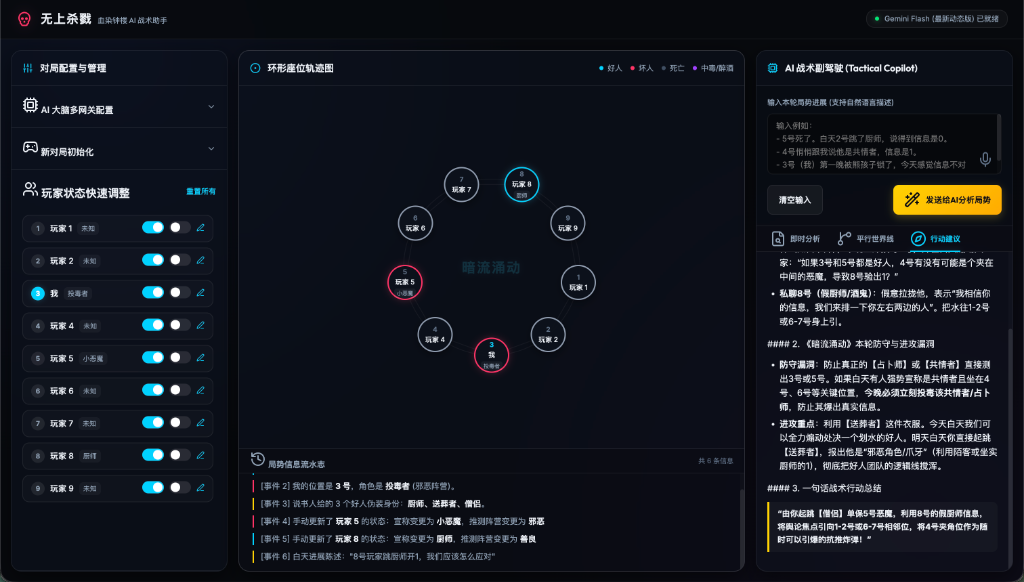
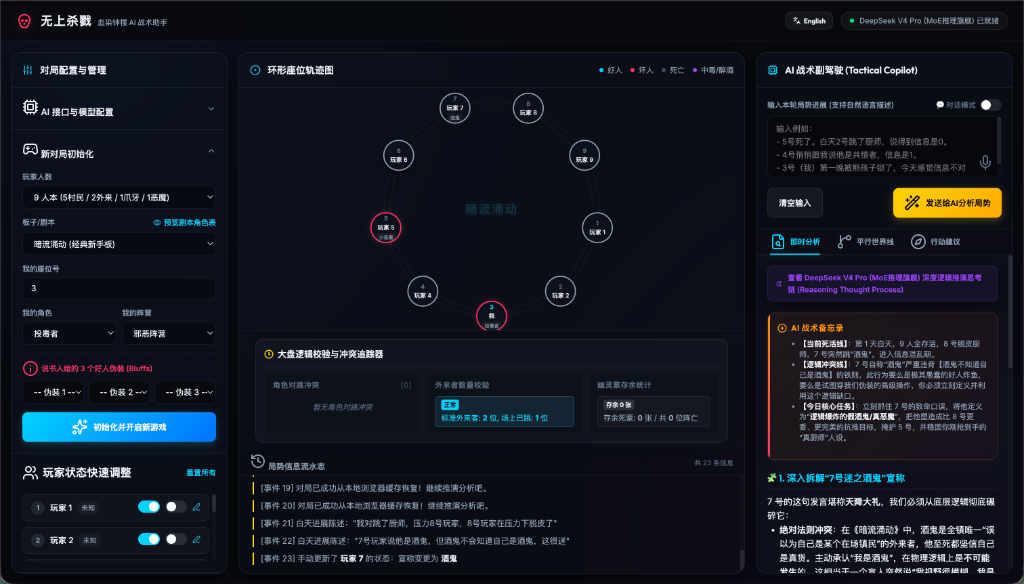
feat: implement NLP-based smart command parser & auto-sync logic for seating chart and deductive tracker

diff --git a/js/state.js b/js/state.js
@@ -283,3 +283,112 @@ export function togglePlayerPoison(seat, isPoisoned) {
         saveToLocalStorage();
     }
 }
+
+// --- 💡 极客功能：智能语义化分析与自动状态追踪提取器 (NLP Smart Command Parser) ---
+export function parseAndApplyTextEvents(text) {
+    if (!text) return;
+    
+    const currentScript = SCRIPTS_DATA[gameState.scriptName];
+    if (!currentScript) return;
+    
+    // 中英文角色底牌池
+    const allRolesCn = [...currentScript.townsfolk, ...currentScript.outsider, ...currentScript.minion, ...currentScript.demon];
+    const currentScriptEn = SCRIPTS_DATA_EN[gameState.scriptName] || { townsfolk:[], outsider:[], minion:[], demon:[] };
+    const allRolesEn = [...currentScriptEn.townsfolk, ...currentScriptEn.outsider, ...currentScriptEn.minion, ...currentScriptEn.demon];
+    
+    // 按分句拆分以实现精准座位与事件多点对应匹配
+    const sentences = text.split(/[,.，。;\n\s+、]+/);
+    let hasChanges = false;
+    
+    sentences.forEach(sentence => {
+        if (!sentence.trim()) return;
+        
+        // 匹配玩家座位，支持多种格式："1号"、"2号玩家"、"玩家3"、"Seat 4"、"seat-5" 等
+        const seatMatch = sentence.match(/(\d+)[\s-]*号|玩家[\s-]*(\d+)|seat[\s-]*(\d+)/i);
+        if (!seatMatch) return;
+        
+        const seatNum = parseInt(seatMatch[1] || seatMatch[2] || seatMatch[3]);
+        if (seatNum < 1 || seatNum > gameState.playerCount) return;
+        
+        const player = gameState.players.find(p => p.seat === seatNum);
+        if (!player) return;
+        
+        // 1. 自动追踪生死变化 (Death/Life Status Check)
+        if (/死|亡|出局|阵亡|被处决|die|dead|killed|executed/i.test(sentence) && !/没死|不死|未死|alive|not\s+dead/i.test(sentence)) {
+            if (player.alive !== false) {
+                player.alive = false;
+                hasChanges = true;
+                const logMsg = gameState.lang === "en"
+                    ? `[NLP Auto] Marked Seat ${seatNum} as Dead`
+                    : `[智能同步] 根据输入自动将 ${seatNum} 号标记为死亡状态`;
+                gameState.logs.push(logMsg);
+                console.log(`💡 [NLP Parser] Auto-updated Seat ${seatNum} to DEAD based on: "${sentence}"`);
+            }
+        } else if (/活|存活|未死|不死|没死|复活|alive/i.test(sentence)) {
+            if (player.alive !== true) {
+                player.alive = true;
+                hasChanges = true;
+                const logMsg = gameState.lang === "en"
+                    ? `[NLP Auto] Marked Seat ${seatNum} as Alive`
+                    : `[智能同步] 根据输入自动将 ${seatNum} 号标记为存活状态`;
+                gameState.logs.push(logMsg);
+                console.log(`💡 [NLP Parser] Auto-updated Seat ${seatNum} to ALIVE based on: "${sentence}"`);
+            }
+        }
+        
+        // 2. 自动追踪中毒醉酒状态 (Drunk/Poisoned Status Check)
+        if (/中毒|醉酒|drunk|poisoned/i.test(sentence) && !/解毒|恢复|正常|healthy|cured/i.test(sentence)) {
+            if (player.poisoned !== true) {
+                player.poisoned = true;
+                hasChanges = true;
+                const logMsg = gameState.lang === "en"
+                    ? `[NLP Auto] Marked Seat ${seatNum} as Drunk/Poisoned`
+                    : `[智能同步] 根据输入自动将 ${seatNum} 号标记为中毒/醉酒`;
+                gameState.logs.push(logMsg);
+                console.log(`💡 [NLP Parser] Auto-updated Seat ${seatNum} to POISONED based on: "${sentence}"`);
+            }
+        } else if (/解毒|恢复|解酒|正常|正常状态|healthy|cured/i.test(sentence)) {
+            if (player.poisoned !== false) {
+                player.poisoned = false;
+                hasChanges = true;
+                const logMsg = gameState.lang === "en"
+                    ? `[NLP Auto] Cleared Drunk/Poisoned on Seat ${seatNum}`
+                    : `[智能同步] 根据输入自动清除了 ${seatNum} 号的中毒/醉酒状态`;
+                gameState.logs.push(logMsg);
+                console.log(`💡 [NLP Parser] Auto-updated Seat ${seatNum} to HEALTHY based on: "${sentence}"`);
+            }
+        }
+        
+        // 3. 自动匹配并更新角色宣称 (Role Claims Check)
+        for (let i = 0; i < allRolesCn.length; i++) {
+            const cnRole = allRolesCn[i];
+            const enRole = allRolesEn[i] || "";
+            
+            // 确保角色全名出现在分句中，并支持中英双语识别
+            const regexCn = new RegExp(cnRole);
+            const regexEn = enRole ? new RegExp("\\b" + enRole + "\\b", "i") : null;
+            
+            if (regexCn.test(sentence) || (regexEn && regexEn.test(sentence))) {
+                if (player.claim !== cnRole) {
+                    const oldClaim = player.claim;
+                    player.claim = cnRole; // 始终以中文全名作为统一基准标识存储
+                    hasChanges = true;
+                    const logMsg = gameState.lang === "en"
+                        ? `[NLP Auto] Updated Seat ${seatNum} claim to: ${enRole}`
+                        : `[智能同步] 根据输入自动将 ${seatNum} 号的宣称变更为：${cnRole}`;
+                    gameState.logs.push(logMsg);
+                    console.log(`💡 [NLP Parser] Auto-updated Seat ${seatNum} claim from "${oldClaim}" to "${cnRole}"`);
+                }
+                break;
+            }
+        }
+    });
+    
+    if (hasChanges) {
+        renderSeatingChart();
+        renderPlayerList();
+        renderTimelineLogs();
+        renderDeductiveValidator();
+        saveToLocalStorage();
+    }
+}

diff --git a/js/components/deductiveValidator.js b/js/components/deductiveValidator.js
@@ -4,17 +4,31 @@
 
 import { gameState } from '../state.js';
 import { GAME_DISTRIBUTIONS, SCRIPTS_DATA } from '../data/rules.js';
+import { getLocalizedRole } from '../i18n.js';
 
 export function renderDeductiveValidator() {
     const card = document.getElementById("deductiveValidatorCard");
-    if (!card) return;
+    if (!card) {
+        console.warn("⚠️ [DeductiveValidator] Card container element 'deductiveValidatorCard' not found in DOM.");
+        return;
+    }
 
     const isEn = gameState.lang === "en";
     const currentScript = SCRIPTS_DATA[gameState.scriptName];
     if (!currentScript) {
+        console.warn("⚠️ [DeductiveValidator] Script data not found for:", gameState.scriptName);
         card.innerHTML = "";
         return;
     }
+
+    console.log("📊 [DeductiveValidator] Running validator checks...");
+    console.log("📊 [DeductiveValidator] Player count:", gameState.playerCount, "Script:", gameState.scriptName);
+    console.log("📊 [DeductiveValidator] Players state:", gameState.players.map(p => ({
+        seat: p.seat,
+        claim: p.claim,
+        alive: p.alive,
+        ghostVoteUsed: p.ghostVoteUsed
+    })));
 
     // 1. 计算对跳冲突 (Claim Collisions)
     const claimGroups = {};
@@ -33,6 +47,7 @@ export function renderDeductiveValidator() {
             collisions.push({ role, seats });
         }
     });
+    console.log("📊 [DeductiveValidator] Calculated collisions:", collisions);
 
     // 2. 计算外来者数量校验 (Outsider Validator)
     const standardDist = GAME_DISTRIBUTIONS[gameState.playerCount] || { Townsfolk: 0, outsider: 0, minion: 0, demon: 0 };
@@ -43,6 +58,7 @@ export function renderDeductiveValidator() {
         return currentScript.outsider.includes(p.claim);
     });
     const claimedOutsidersCount = claimedOutsiders.length;
+    console.log("📊 [DeductiveValidator] Outsiders: Standard =", standardOutsiders, "Claimed =", claimedOutsidersCount, claimedOutsiders.map(p => p.seat));
 
     // 3. 计算幽灵票存余统计 (Ghost Votes)
     const deadPlayers = gameState.players.filter(p => !p.alive);
@@ -66,7 +82,7 @@ export function renderDeductiveValidator() {
             const seatsStr = isEn ? `Seats ${c.seats.join(" & ")}` : `${c.seats.join(" 号 & ")} 号`;
             return `
                 <div class="validator-item alert-danger">
-                    <span><strong>${c.role}</strong> (${seatsStr})</span>
+                    <span><strong>${getLocalizedRole(c.role)}</strong> (${seatsStr})</span>
                     <span class="validator-badge danger">${isEn ? "Collision" : "对跳"}</span>
                 </div>
             `;

diff --git a/js/api.js b/js/api.js
@@ -18,7 +18,8 @@ import {
 
 import {
     gameState,
-    saveToLocalStorage
+    saveToLocalStorage,
+    parseAndApplyTextEvents
 } from './state.js';
 
 import { dom } from './dom.js';
@@ -80,11 +81,15 @@ export async function handleAiAnalysis() {
 
     // 1. 如果有输入输入框，且不是对话模式，才追加到日志中
     if (rawText && !isChatMode) {
+        // 先触发智能语义提取与自动状态追踪同步
+        parseAndApplyTextEvents(rawText);
+        
         gameState.logs.push(`白天进展陈述："${rawText}"`);
         renderTimelineLogs();
         dom.consoleInput.value = ""; // 清空
         saveToLocalStorage();
     } else if (rawText && isChatMode) {
+        parseAndApplyTextEvents(rawText);
         dom.consoleInput.value = ""; // 对话模式直接清空输入框，但不加进事件日志
         saveToLocalStorage();
     }

diff --git a/js/i18n.js b/js/i18n.js
@@ -21,6 +21,7 @@ import { dom } from './dom.js';
 import { renderSeatingChart } from './components/seatingChart.js';
 import { renderPlayerList } from './components/playerList.js';
 import { renderTimelineLogs } from './components/timelineLogs.js';
+import { renderDeductiveValidator } from './components/deductiveValidator.js';
 import { populateScriptPreview } from './components/scriptPreview.js';
 import { saveLanguage } from './services/storage.js';
 
@@ -225,6 +226,10 @@ export function setLanguage(lang) {
         renderPlayerList();
         renderSeatingChart();
         renderTimelineLogs();
+        renderDeductiveValidator();
+    }
+    else {
+        renderDeductiveValidator();
     }
     
     populateScriptPreview();

diff --git a/js/events.js b/js/events.js
@@ -10,12 +10,15 @@ import { populateScriptPreview } from './components/scriptPreview.js';
 import { handleAiAnalysis } from './api.js';
 import { TRANSLATIONS } from './data/translations.js';
 import { clearGameState, loadApiKey, saveApiKey } from './services/storage.js';
+import { renderDeductiveValidator } from './components/deductiveValidator.js';
 
 export function initCoreEvents() {
     // 1. 剧本更换监听
     dom.scriptSelect.addEventListener("change", () => {
+        gameState.scriptName = dom.scriptSelect.value;
         updateMyRoleOptions();
         populateScriptPreview();
+        renderDeductiveValidator();
         saveToLocalStorage();
     });
     

diff --git a/README.md b/README.md
@@ -33,28 +33,37 @@ This is a pure client-side, single-page gaming visualizer and logical deduction 
 
 ---
 
-#### 2. 🗺️ 中间面板：环形座位轨迹图与流水志 (Visual Board & Log)
-中间面板是游戏的物理局势沙盘，负责图形化还原圆桌对局状态并按时间线记录事件。
+#### 2. 🗺️ 中间面板：座位图、逻辑校验器与流水志 (Visual Board & Deductive Center)
+中间面板是整个游戏的物理局势沙盘与逻辑校验中心，负责图形化还原圆桌对局状态，实时校验逻辑冲突，并记录完整事件流水。
 
 * **环形座位轨迹图 (Circular Seating Chart)**：
   * **功能**：直观展示玩家之间的物理相对位置及实时状态。
   * **视角旋转机制**：输入您自身的座位号（“我”），圆桌会自动旋转，将您的物理座位锁定在圆桌的**正下方（6点钟方向）**，其余玩家节点按顺时针依次排布。此设计能帮助玩家从自身真实第一视角观测左邻右舍。
   * **状态图示**：
     * 蓝色外圈代表善良阵营，红色外圈代表邪恶阵营（由左侧面板判定设定）。
-    * 节点半透明且带暗灰边框表示该玩家已死亡。
+    * 节点半透明且带暗灰边框表示该玩家已死亡。死亡节点内部会自动渲染一枚 **幽灵票存余指示灯（Dead Vote Token）**，展示死票存余情况，点击可标记使用。
     * 节点带有紫色呼吸光晕代表该玩家当前被标记为中毒或醉酒。
-    * 玩家节点之间的带箭头保护线实时动态渲染。
+    * 玩家节点之间的物理邻座连线与茶艺师等技能保护线实时动态渲染。
+* **大盘逻辑校验与冲突追踪器 (Deductive Validator Dashboard)**：
+  * **功能**：系统核心的高级逻辑演算引擎，支持中英双语，负责实时进行全局逻辑校验，包括：
+    * **角色对跳冲突 (Claim Collisions)**：自动检测并追踪多名玩家宣称同一唯一角色（如对跳共情者、对跳占卜师）的冲突，在追踪面板中以高亮红色警报显示冲突座位号。
+    * **外来者数量校验 (Outsider Count)**：根据当前游戏人数读取对应的标准角色配置，与当前场上已起跳的外来者数量进行实时对比。当已起跳外来者数量溢出时自动发出警报，提示玩家关注“男爵、教父改配置”或“酒鬼、坏人穿衣服”的逻辑切入点。
+    * **幽灵票存余统计 (Dead Ghost Votes)**：实时汇总所有阵亡玩家的幽灵死票存余状态，清晰展示 “存余死票 / 总死亡人数”，帮助好人团队精确规划处决轮次与死票防守线。
 * **局势信息流水志 (Game Events Log)**：
   * **功能**：按时间顺序（Chronological Order）自动记录对局中发生的所有逻辑变更、玩家状态更新以及白天输入框提交的进展描述。
   * **使用方法**：此部分为系统自动维护。该日志链会直接作为 AI 提示词（Prompt）的结构化输入上下文，确保 AI 能够基于完整的历史对局脉络进行演算。当系统语言为英文时，AI 也会根据该上下文用英文做深度演算与输出。
 
 ---
 
-#### 3. 👉 右侧面板：AI 战术副驾驶 (Tactical Copilot)
+#### 3. 👉 右侧面板：AI 战术副驾驶与智能同步终端 (Tactical Copilot)
 右侧面板为基于大语言模型（LLM）的博弈推理输出终端，协助玩家分析逻辑漏洞。
 
 * **输入本轮局势进展 (Daytime Input)**：
   * **功能**：支持自然语言描述本轮发生的新信息（例如：*“5号夜里死了。8号白天跳厨师，说信息是1”*）。
+  * **智能语义提取与自动状态追踪同步 (NLP Smart Command Parser) [极客级功能]**：
+    * 当您在右侧文本框录入白天局势进展并发送给 AI 时，系统会在后台运行一套高效的**自然语言分析提取引擎**。
+    * 该引擎支持**中英双语**，能够智能识别句中的“玩家座位 + 事件行为”（如：*“5号夜里死了”* 自动将5号玩家设为死亡状态；*“8号白天跳厨师”* 自动将8号宣称更新为“厨师”；*“3号中毒了”* 自动给3号打上中毒高亮；*“1号和2号对跳共情者”* 自动更新两人的宣称并瞬间触发大盘冲突警报）。
+    * 这极大简化了玩家的手动点击操作，让您只用专注记录发言，物理座位图和大盘逻辑校验器将实时与您的文字描述同步！
   * **使用方法**：在文本域中录入最新的进展陈述，点击黄色 **【发送给AI分析局势】** 按钮。系统会清空输入框，将该进展归档至流水志，并向 AI 网关发起请求。
 * **推理输出选项卡 (Analysis Tabs)**：
   * 当页面切换为英文状态时，系统发送给 Gemini 等 API 的系统提示词 payload 会自动转换为高度结构化的英文，使 AI 即使面对中文的输入，也会全程以纯英文输出专业的世界线推演与战术对策。
@@ -118,28 +127,37 @@ This panel manages system initialization, AI gateway configs, and player state u
 
 ---
 
-#### 2. 🗺️ Center Panel: Seating Circle & Action Logs
-The sandtable visualizes the physical circular layout of players and traces events chronologically.
+#### 2. 🗺️ Center Panel: Visual Board, Logic Validator & Action Logs
+The sandtable visualizes the physical circular layout of players, dynamically calculates logical contradictions, and traces events chronologically.
 
 * **Interactive Seating Circle**:
   * **Feature**: Graphic representation of players' physical seating arrangement and live markers.
   * **First-Person View Rotation**: Input your active seat number in the "My Seat Number" field, and the circular visualizer automatically rotates to lock your seat node at the **bottom-center (6 o'clock direction)**. All other seats are arranged clockwise. This visual perspective replicates your real view of the circular table.
   * **Status Diagrams**:
     * Cyan rings signify a Good alignment; crimson rings signify Evil (configured via the Popover details).
-    * Semi-transparent nodes with gray borders indicate dead players.
+    * Semi-transparent nodes with gray borders indicate dead players. A glowing **Dead Vote Token** is automatically rendered inside dead players' nodes. Click it to mark their final ghost vote as used/active.
     * A purple neon glow ring represents that a player is currently Drunk or Poisoned.
-    * Dynamic, arrowed protection lines between nodes are rendered on the fly.
+    * Dynamic, arrowed protection lines between nodes (e.g. Tea Lady bounds) are rendered on the fly.
+* **Deductive Validator Dashboard**:
+  * **Feature**: A real-time, bilingual constraint-solving engine that runs underneath the seating chart to flag logical anomalies instantly:
+    * **Claim Collisions**: Detects when multiple players claim the same unique role (e.g., two players claiming "Savant" or "Undertaker") and highlights them in high-contrast red warnings.
+    * **Outsider Count**: Compares the standard Outsider configuration for the current player size with the claimed/suspected Outsiders. Highlights anomalies in orange if claims exceed standards, hinting at "Baron bluffing" or "evil players claiming fake roles."
+    * **Dead Ghost Votes**: Automatically aggregates the active ghost votes remaining among all dead players (e.g., "Active Dead Votes: 3 / 4") in a sleek neon badge, allowing perfect planning of execution rounds.
 * **Game Action & Interaction Logs (Timeline)**:
   * **Feature**: Chronologically records all logical changes, state shifts, and daytime statements submitted from the console.
   * **Usage**: Completely automated. This log is directly injected as structured context payload into the AI reasoning prompt, ensuring logically grounded worldline deductions.
 
 ---
 
-#### 3. 👉 Right Panel: AI Tactical Copilot
+#### 3. 👉 Right Panel: AI Tactical Copilot & Smart Sync Terminal
 A specialized large language model (LLM) terminal designed to calculate contradictions, locate logical holes, and frame strategies.
 
 * **Enter Current Turn Updates (Daytime Input)**:
   * **Feature**: Supports natural language entry of events (e.g., *"Seat 5 died tonight. Seat 8 claimed Chef with a '1' in the morning"*).
+  * **NLP Smart Command Parser (Auto-Sync) [Premium Feature]**:
+    * When you type daytime turn updates and send them to the AI, a background **Natural Language Processing (NLP) Parser** automatically intercepts the text.
+    * Supporting both English and Chinese, it extracts player states (e.g. *"Seat 5 died"* sets Seat 5 to Dead; *"Seat 8 claimed Chef"* sets Seat 8's claim to "Chef"; *"Seat 3 is poisoned"* highlights Seat 3 in purple; *"Seat 1 and 2 claim Empath"* triggers a claim collision alert).
+    * This bridges the gap between text entry and the visual board, letting you take notes naturally while the visual circle and Deductive Validator sync in real time!
   * **Usage**: Enter your statements, and click the yellow **【Send to AI for Analysis】** button. The input clears, logs the event, and queries the LLM gateway.
 * **Analysis & Deduction Tabs**:
   * When the active language is English, the prompt payload transmitted to the Gemini API is automatically translated into structured English. This instructs the AI to reason and return all analyses strictly in English, despite the Chinese input labels.